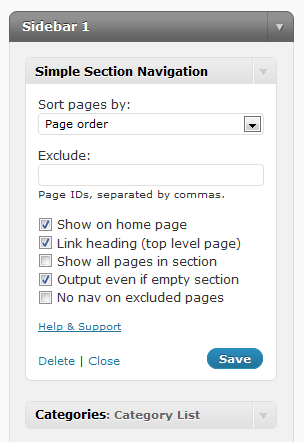
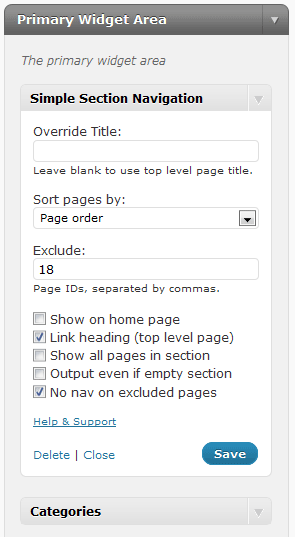
version 2.1 -custom titles -filter for titles -various optimizations
git-svn-id: https://plugins.svn.wordpress.org/simple-section-navigation/trunk@255925 b8457f37-d9ea-0310-8a92-e5e31aec5664

Changed region(s): [[0.0, 0.0, 1.0, 1.0], [0.0915, 0.9118, 0.6712, 0.9706], [0.8542, 0.9118, 0.8847, 0.9412]]

diff --git a/simple_section_nav.php b/simple_section_nav.php
@@ -3,7 +3,7 @@
  Plugin Name: Simple Section Navigation Widget
  Plugin URI: http://www.cmurrayconsulting.com/software/wordpress-simple-section-navigation/
  Description: Adds a <strong>widget</strong> for <strong>section (or top level page) based navigation</strong>... essential for <strong>CMS</strong> implementations! The <strong>title of the widget is the top level page</strong> within the current page hierarchy. Shows all page siblings (except on the top level page), all parents and grandparents (and higher), the siblings of all parents and grandparents (up to top level page), and any immediate children of the current page. Can also be called by a function inside template files. May <strong>exclude any pages or sections</strong>. Uses standard WordPress navigation classes for easy styling. 
- Version: 2.0.2
+ Version: 2.1
  Author: Jacob M Goldman (C. Murray Consulting)
  Author URI: http://www.cmurrayconsulting.com
 
@@ -35,83 +35,91 @@ class SimpleSectionNav extends WP_Widget
 		extract($args);
 		global $post;
 		
-		if (is_search() || is_404()) return false; //doesn't apply to search or 404 page
-		if (is_front_page() && !$instance['show_on_home']) return false;	//if we're on the front page and we haven't chosen to show this anyways, leave
+		if ( is_search() || is_404() ) return false; //doesn't apply to search or 404 page
+		if ( is_front_page() && !$instance['show_on_home'] ) return false;	//if we're on the front page and we haven't chosen to show this anyways, leave
 		
-		if (is_page()) {
-			if (isset($post) && is_object($post)) _get_post_ancestors($post);   //workaround for occassional problems
+		if ( is_page() ) {
+			if ( isset($post) && is_object($post) ) _get_post_ancestors($post);   //workaround for occassional problems
 		} else {
 			if ($post_page = get_option("page_for_posts")) $post = get_page($post_page); //treat the posts page as the current page if applicable
 			elseif ($instance['show_on_home']) $sub_front_page = true;	//if want to show on home, and home is the posts page
 			else return false;
 		}
 		
-		if (is_front_page() || isset($sub_front_page)) {
+		if ( is_front_page() || isset($sub_front_page )) {
 			echo $before_widget.$before_title.get_bloginfo('name').$after_title."<ul>";
-			$children = wp_list_pages(array('title_li'=>'', 'depth'=>1, 'sort_column'=>$instance['sort_by'], 'exclude'=>$instance['exclude'], 'echo'=>false));
+			$children = wp_list_pages(array( 'title_li' => '', 'depth' => 1, 'sort_column' => $instance['sort_by'], 'exclude' => $instance['exclude'], 'echo' => false ));
 			echo apply_filters('simple_section_page_list',$children);
 			echo "</ul>".$after_widget;
 			return true; 
 	  	}
 		
-		$excluded = explode(',', $instance['exclude']); //convert list of excluded pages to array 
-		if (in_array($post->ID,$excluded) && $instance['hide_on_excluded']) return false; //if on excluded page, and setup to hide on excluded pages 
+		$exclude_list = $instance['exclude'];
+		$excluded = explode(',', $exclude_list); //convert list of excluded pages to array 
+		if ( in_array($post->ID,$excluded) && $instance['hide_on_excluded'] ) return false; //if on excluded page, and setup to hide on excluded pages 
 		
-		$post_ancestors = (isset($post->ancestors)) ? $post->ancestors : get_post_ancestors($post); //get the current page's ancestors either from existing value or by executing function
+		$post_ancestors = ( isset($post->ancestors) ) ? $post->ancestors : get_post_ancestors($post); //get the current page's ancestors either from existing value or by executing function
 		$top_page = $post_ancestors ? end($post_ancestors) : $post->ID; //get the top page id
 		
-		//initialize default variables
-		$pagelist = "";
-		$thedepth = 0;
+		$thedepth = 0; //initialize default variables
 		
-		if(!$instance['show_all']) {	
-			$ancestor_list = implode(",",$post_ancestors).','.$post->ID; //list format of all ancestory including current page
+		if( !$instance['show_all'] ) 
+		{	
+			$ancestors_me = implode( ',', $post_ancestors ) . ',' . $post->ID;
 			
 			//exclude pages not in direct hierarchy
-			foreach ($post_ancestors as $anc_id) {
-				if (in_array($anc_id,$excluded) && $instance['hide_on_excluded']) return false; //if ancestor excluded, and hide on excluded, leave
+			foreach ($post_ancestors as $anc_id) 
+			{
+				if ( in_array($anc_id,$excluded) && $instance['hide_on_excluded'] ) return false; //if ancestor excluded, and hide on excluded, leave
 				
-				$pageset = get_pages(array('child_of'=>$anc_id, 'parent'=>$anc_id, 'exclude'=>$ancestor_list));
+				$pageset = get_pages(array( 'child_of' => $anc_id, 'parent' => $anc_id, 'exclude' => $ancestors_me ));
 				foreach ($pageset as $page) {
-					$excludeset = get_pages(array('child_of'=>$page->ID, 'parent'=>$page->ID));
-					foreach ($excludeset as $expage) $pagelist = $pagelist.$expage->ID.",";
+					$excludeset = get_pages(array( 'child_of' => $page->ID, 'parent' => $page->ID ));
+					foreach ($excludeset as $expage) { $exclude_list .= ',' . $expage->ID; }
 				}
 			}
 			
 			$thedepth = count($post_ancestors)+1; //prevents improper grandchildren from showing
 		}		
 		
-		$children = wp_list_pages(array('title_li'=>'', 'echo'=>0, 'depth'=>$thedepth, 'child_of'=>$top_page, 'sort_column'=>$instance['sort_by'], 'exclude'=>($pagelist.$instance['exclude'])));	//get the list of pages, including only those in our page list
-		if(!$children && !$instance['show_empty']) return false; 	//if there are no pages in this section, and use hasnt chosen to display widget anyways, leave the function
+		$children = wp_list_pages(array( 'title_li' => '', 'echo' => 0, 'depth' => $thedepth, 'child_of' => $top_page, 'sort_column' => $instance['sort_by'], 'exclude' => $exclude_list ));	//get the list of pages, including only those in our page list
+		if( !$children && !$instance['show_empty'] ) return false; 	//if there are no pages in this section, and use hasnt chosen to display widget anyways, leave the function
 		
-		$sect_title = get_the_title($top_page);
+		$sect_title = ( $instance['title'] ) ? apply_filters( 'the_title', $instance['title'] ) : apply_filters( 'the_title', get_the_title($top_page), $top_page );
+		$sect_title = apply_filters( 'simple_section_nav_title', $sect_title );
 		if ($instance['a_heading']) {
-			$headclass = ($post->ID == $top_page) ? "current_page_item" : "current_page_ancestor";
-			if ($post->post_parent == $top_page) $headclass .= " current_page_parent";
-			$sect_title = '<a href="'.get_permalink($top_page).'" id="toppage-'.$top_page.'" class="'.$headclass.'">'.$sect_title.'</a>';	
+			$headclass = ( $post->ID == $top_page ) ? "current_page_item" : "current_page_ancestor";
+			if ( $post->post_parent == $top_page ) $headclass .= " current_page_parent";
+			$sect_title = '<a href="' . get_page_link($top_page) . '" id="toppage-' . $top_page . '" class="' . $headclass . '">' . $sect_title . '</a>';	
 		}
 	  	
 		echo $before_widget.$before_title.$sect_title.$after_title."<ul>";
-		echo apply_filters('simple_section_page_list',$children);
+		echo apply_filters( 'simple_section_page_list', $children );
 		echo "</ul>".$after_widget;
 	}
 
 	function update($new_instance, $old_instance) {
 		$instance = $old_instance;
-		$instance['show_all'] = ($new_instance['show_all']) ? true : false;
-		$instance['exclude'] = str_replace(" ","",$new_instance['exclude']); //remove spaces from list
-		$instance['hide_on_excluded'] = ($new_instance['hide_on_excluded']) ? true : false;
-		$instance['show_on_home'] = ($new_instance['show_on_home']) ? true : false;
-		$instance['show_empty'] = ($new_instance['show_empty']) ? true : false;
-		$instance['sort_by'] = $new_instance['sort_by'];
-		$instance['a_heading'] = ($new_instance['a_heading']) ? true : false;
+		$instance['title'] = trim( strip_tags( $new_instance['title'] ) );
+		$instance['show_all'] = ( $new_instance['show_all'] ) ? true : false;
+		$instance['exclude'] = str_replace( " ", "", strip_tags($new_instance['exclude']) ); //remove spaces from list
+		$instance['hide_on_excluded'] = ( $new_instance['hide_on_excluded'] ) ? true : false;
+		$instance['show_on_home'] = ( $new_instance['show_on_home'] ) ? true : false;
+		$instance['show_empty'] = ( $new_instance['show_empty'] ) ? true : false;
+		$instance['sort_by'] = ( in_array( $new_instance['sort_by'], array( 'post_title', 'menu_order', 'ID' ) ) ) ? $new_instance['sort_by'] : 'menu_order';
+		$instance['a_heading'] = ( $new_instance['a_heading'] ) ? true : false;
 		return $instance;
 	}
 
 	function form($instance){
 		//Defaults
-		$instance = wp_parse_args( (array) $instance, array( 'show_all' => false, 'exclude' => '', 'hide_on_excluded' => true, 'show_on_home' => false, 'show_empty' => false, 'sort_by' => 'menu_order', 'a_heading' => false));
+		$instance = wp_parse_args( (array) $instance, array( 'show_all' => false, 'exclude' => '', 'hide_on_excluded' => true, 'show_on_home' => false, 'show_empty' => false, 'sort_by' => 'menu_order', 'a_heading' => false, 'title' => '' ));
 	?>
+		<p>
+			<label for="<?php echo $this->get_field_id('title'); ?>"><?php _e('Override Title:'); ?></label> 
+			<input type="text" id="<?php echo $this->get_field_id('title'); ?>" name="<?php echo $this->get_field_name('title'); ?>" value="<?php echo esc_attr($instance['title']); ?>" size="7" class="widefat" /><br />
+			<small>Leave blank to use top level page title.</small>			
+		</p>
 		<p>
 			<label for="<?php echo $this->get_field_id('sort_by'); ?>"><?php _e('Sort pages by:'); ?></label>
 			<select name="<?php echo $this->get_field_name('sort_by'); ?>" id="<?php echo $this->get_field_id('sort_by'); ?>" class="widefat">
@@ -122,7 +130,7 @@ class SimpleSectionNav extends WP_Widget
 		</p>
 		<p>
 			<label for="<?php echo $this->get_field_id('exclude'); ?>"><?php _e('Exclude:'); ?></label> 
-			<input type="text" id="<?php echo $this->get_field_id('exclude'); ?>" name="<?php echo $this->get_field_name('exclude'); ?>" value="<?php echo esc_html($instance['exclude']); ?>" size="7" class="widefat" /><br />
+			<input type="text" id="<?php echo $this->get_field_id('exclude'); ?>" name="<?php echo $this->get_field_name('exclude'); ?>" value="<?php echo esc_attr($instance['exclude']); ?>" size="7" class="widefat" /><br />
 			<small>Page IDs, separated by commas.</small>			
 		</p>
 		<p> 
@@ -156,11 +164,24 @@ add_action('widgets_init', create_function('', 'return register_widget("SimpleSe
  * @return string HTML content, if not displaying.
  */
 function simple_section_nav($args='',$deprecated=NULL) {
-	if (!is_null($deprecated)) {
+	if ( !is_null($deprecated) ) {
 		echo 'The section navigation has been upgrade from 1.x to 2.0; this template needs to be updated to reflect major changes to the plug-in.';
 		return false;
 	}
-	$args = wp_parse_args($args, array('show_all' => false, 'exclude' => '', 'hide_on_excluded' => true, 'show_on_home' => false, 'show_empty' => false, 'sort_by' => 'menu_order', 'a_heading' => false, 'before_widget'=>'<div>','after_widget'=>'</div>', 'before_title'=>'<h2 class="widgettitle">', 'after_title'=>'</h2>')); //defaults
+	$args = wp_parse_args($args, array(
+		'show_all' => false, 
+		'exclude' => '', 
+		'hide_on_excluded' => true, 
+		'show_on_home' => false, 
+		'show_empty' => false, 
+		'sort_by' => 'menu_order', 
+		'a_heading' => false, 
+		'before_widget'=>'<div>',
+		'after_widget'=>'</div>', 
+		'before_title'=>'<h2 class="widgettitle">', 
+		'after_title'=>'</h2>', 
+		'title' => ''
+	)); //defaults
 	the_widget('SimpleSectionNav',$args,array('before_widget'=>$args['before_widget'],'after_widget'=>$args['after_widget'],'before_title'=>$args['before_title'],'after_title'=>$args['after_title']));
 }
 
